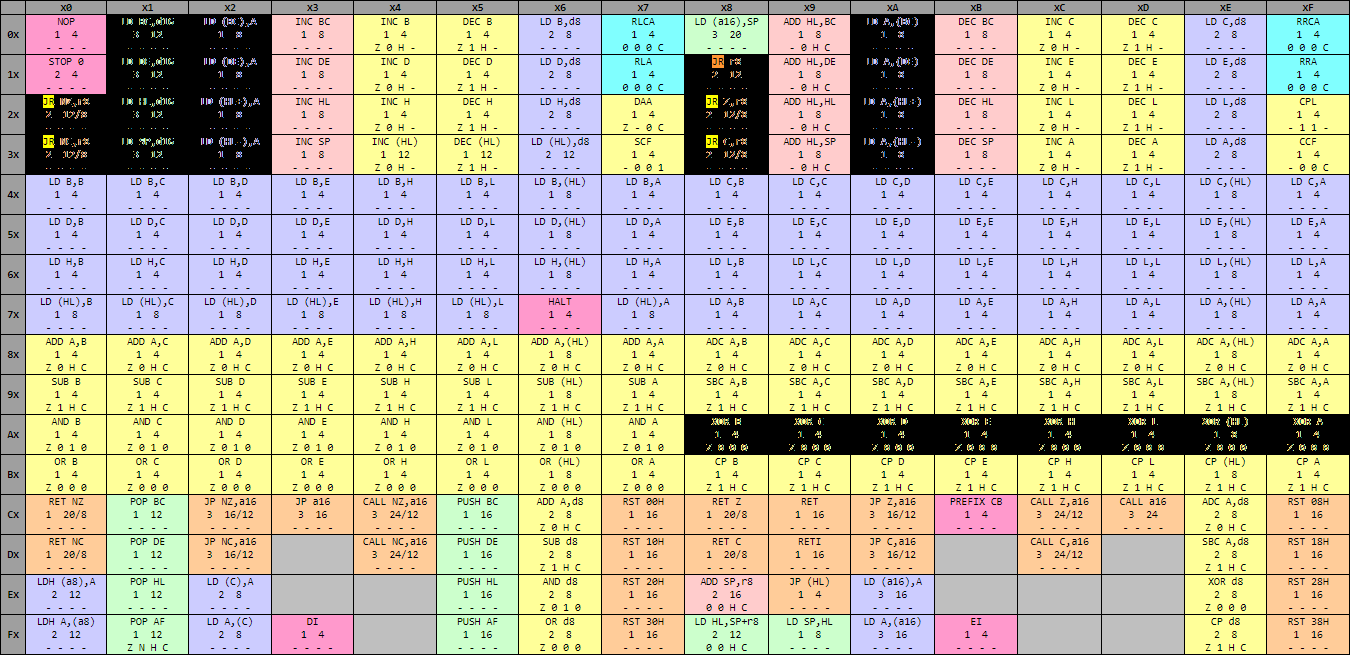
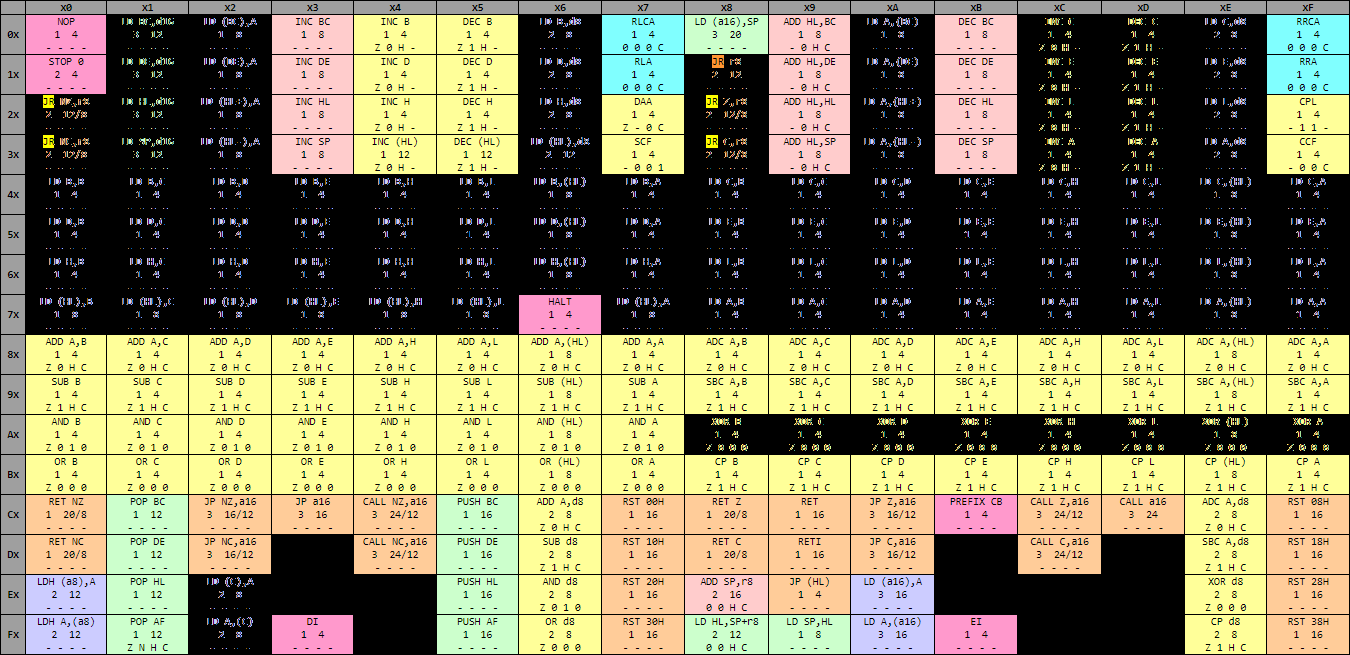
Decode opcodes continued

diff --git a/gbCPU.decode.c b/gbCPU.decode.c
@@ -1,11 +1,15 @@
 #include <stdio.h>
 #include "gbCPU.h"
 
-#define OPL  "%s %d"
-#define OPR  "%s %s"
-#define OPRL "%s %s, %d"
-#define OPRR "%s %s, %s"
-#define OPRW "%s %s, %0#6x"
+#define OPL   "%s %d"
+#define OPR   "%s %s"
+#define OPW   "%s %0#6x"
+#define OPRL  "%s %s, %d"
+#define OPRR  "%s %s, %s"
+#define OPRB  "%s %s, %0#4x"
+#define OPRW  "%s %s, %0#6x"
+#define OPBMR "%s (%0#4x), %s"
+#define OPRBM "%s %s, (%0#4x)"
 
 void DecodeExecuteCB(BYTE opcode, FILE *output);
 
@@ -23,7 +27,7 @@ void DecodeExecute(BYTE opcode, FILE *output)
         case 0x31: fprintf(output, OPRW, "LD", "SP", GetImmediateWord(output));
                    break;
 
-        // Load / Store byte into register A
+        // Load / Store byte in memory into register A
         case 0x02: fprintf(output, OPRR, "LD", "(BC)", "A");
                    break;
         case 0x12: fprintf(output, OPRR, "LD", "(DE)", "A");
@@ -41,6 +45,44 @@ void DecodeExecute(BYTE opcode, FILE *output)
         case 0x3a: fprintf(output, OPRR, "LD", "A", "(HL-)");
                    break;
 
+        // Load immediate byte into register
+        case 0x06: fprintf(output, OPRB, "LD", "B", Fetch(output));
+                   break;
+        case 0x0e: fprintf(output, OPRB, "LD", "C", Fetch(output));
+                   break;           
+        case 0x16: fprintf(output, OPRB, "LD", "D", Fetch(output));
+                   break;
+        case 0x1e: fprintf(output, OPRB, "LD", "E", Fetch(output));
+                   break;
+        case 0x26: fprintf(output, OPRB, "LD", "H", Fetch(output));
+                   break;
+        case 0x2e: fprintf(output, OPRB, "LD", "L", Fetch(output));
+                   break;
+        case 0x36: fprintf(output, OPRB, "LD", "(HL)", Fetch(output));
+                   break;
+        case 0x3e: fprintf(output, OPRB, "LD", "A", Fetch(output));
+                   break;                                                                                               
+
+        // Increment
+        case 0x0c: fprintf(output, OPR, "INC", "C");
+                   break;
+        case 0x1c: fprintf(output, OPR, "INC", "E");
+                   break;
+        case 0x2c: fprintf(output, OPR, "INC", "L");
+                   break;
+        case 0x3c: fprintf(output, OPR, "INC", "A");
+                   break;
+
+        // Decrement
+        case 0x0d: fprintf(output, OPR, "INC", "C");
+                   break;
+        case 0x1d: fprintf(output, OPR, "INC", "E");
+                   break;
+        case 0x2d: fprintf(output, OPR, "INC", "L");
+                   break;
+        case 0x3d: fprintf(output, OPR, "INC", "A");
+                   break;                                                                                                                                     
+
         // Jump relative to current PC
         case 0x18: fprintf(output, OPL, "JR", (S_BYTE)Fetch(output));
                    break;
@@ -52,6 +94,148 @@ void DecodeExecute(BYTE opcode, FILE *output)
                    break;
         case 0x30: fprintf(output, OPRL, "JR", "NC", (S_BYTE)Fetch(output));
                    break;                                      
+
+        // Load byte from register (or (HL)) into register B
+        case 0x40: fprintf(output, OPRR, "LD", "B", "B");
+                   break;
+        case 0x41: fprintf(output, OPRR, "LD", "B", "C");
+                   break;
+        case 0x42: fprintf(output, OPRR, "LD", "B", "D");
+                   break;
+        case 0x43: fprintf(output, OPRR, "LD", "B", "E");
+                   break;
+        case 0x44: fprintf(output, OPRR, "LD", "B", "H");
+                   break;
+        case 0x45: fprintf(output, OPRR, "LD", "B", "L");
+                   break;
+        case 0x46: fprintf(output, OPRR, "LD", "B", "(HL)");
+                   break;
+        case 0x47: fprintf(output, OPRR, "LD", "B", "A");
+                   break;                   
+
+        // Load byte from register (or (HL)) into register C
+        case 0x48: fprintf(output, OPRR, "LD", "C", "B");
+                   break;
+        case 0x49: fprintf(output, OPRR, "LD", "C", "C");
+                   break;
+        case 0x4a: fprintf(output, OPRR, "LD", "C", "D");
+                   break;
+        case 0x4b: fprintf(output, OPRR, "LD", "C", "E");
+                   break;
+        case 0x4c: fprintf(output, OPRR, "LD", "C", "H");
+                   break;
+        case 0x4d: fprintf(output, OPRR, "LD", "C", "L");
+                   break;
+        case 0x4e: fprintf(output, OPRR, "LD", "C", "(HL)");
+                   break;
+        case 0x4f: fprintf(output, OPRR, "LD", "C", "A");
+                   break;  
+
+        // Load byte from register (or (HL)) into register D
+        case 0x50: fprintf(output, OPRR, "LD", "D", "B");
+                   break;
+        case 0x51: fprintf(output, OPRR, "LD", "D", "C");
+                   break;
+        case 0x52: fprintf(output, OPRR, "LD", "D", "D");
+                   break;
+        case 0x53: fprintf(output, OPRR, "LD", "D", "E");
+                   break;
+        case 0x54: fprintf(output, OPRR, "LD", "D", "H");
+                   break;
+        case 0x55: fprintf(output, OPRR, "LD", "D", "L");
+                   break;
+        case 0x56: fprintf(output, OPRR, "LD", "D", "(HL)");
+                   break;
+        case 0x57: fprintf(output, OPRR, "LD", "D", "A");
+                   break;                   
+
+        // Load byte from register (or (HL)) into register E
+        case 0x58: fprintf(output, OPRR, "LD", "E", "B");
+                   break;
+        case 0x59: fprintf(output, OPRR, "LD", "E", "C");
+                   break;
+        case 0x5a: fprintf(output, OPRR, "LD", "E", "D");
+                   break;
+        case 0x5b: fprintf(output, OPRR, "LD", "E", "E");
+                   break;
+        case 0x5c: fprintf(output, OPRR, "LD", "E", "H");
+                   break;
+        case 0x5d: fprintf(output, OPRR, "LD", "E", "L");
+                   break;
+        case 0x5e: fprintf(output, OPRR, "LD", "E", "(HL)");
+                   break;
+        case 0x5f: fprintf(output, OPRR, "LD", "E", "A");
+                   break;  
+
+        // Load byte from register (or (HL)) into register H
+        case 0x60: fprintf(output, OPRR, "LD", "H", "B");
+                   break;
+        case 0x61: fprintf(output, OPRR, "LD", "H", "C");
+                   break;
+        case 0x62: fprintf(output, OPRR, "LD", "H", "D");
+                   break;
+        case 0x63: fprintf(output, OPRR, "LD", "H", "E");
+                   break;
+        case 0x64: fprintf(output, OPRR, "LD", "H", "H");
+                   break;
+        case 0x65: fprintf(output, OPRR, "LD", "H", "L");
+                   break;
+        case 0x66: fprintf(output, OPRR, "LD", "H", "(HL)");
+                   break;
+        case 0x67: fprintf(output, OPRR, "LD", "H", "A");
+                   break;                   
+
+        // Load byte from register (or (HL)) into register L
+        case 0x68: fprintf(output, OPRR, "LD", "L", "B");
+                   break;
+        case 0x69: fprintf(output, OPRR, "LD", "L", "C");
+                   break;
+        case 0x6a: fprintf(output, OPRR, "LD", "L", "D");
+                   break;
+        case 0x6b: fprintf(output, OPRR, "LD", "L", "E");
+                   break;
+        case 0x6c: fprintf(output, OPRR, "LD", "L", "H");
+                   break;
+        case 0x6d: fprintf(output, OPRR, "LD", "L", "L");
+                   break;
+        case 0x6e: fprintf(output, OPRR, "LD", "L", "(HL)");
+                   break;
+        case 0x6f: fprintf(output, OPRR, "LD", "L", "A");
+                   break;  
+
+        // Load byte from register (or (HL)) into memory at HL
+        case 0x70: fprintf(output, OPRR, "LD", "(HL)", "B");
+                   break;
+        case 0x71: fprintf(output, OPRR, "LD", "(HL)", "C");
+                   break;
+        case 0x72: fprintf(output, OPRR, "LD", "(HL)", "D");
+                   break;
+        case 0x73: fprintf(output, OPRR, "LD", "(HL)", "E");
+                   break;
+        case 0x74: fprintf(output, OPRR, "LD", "(HL)", "H");
+                   break;
+        case 0x75: fprintf(output, OPRR, "LD", "(HL)", "L");
+                   break;
+        case 0x77: fprintf(output, OPRR, "LD", "(HL)", "A");
+                   break;                   
+
+        // Load byte from register (or (HL)) into register A
+        case 0x78: fprintf(output, OPRR, "LD", "A", "B");
+                   break;
+        case 0x79: fprintf(output, OPRR, "LD", "A", "C");
+                   break;
+        case 0x7a: fprintf(output, OPRR, "LD", "A", "D");
+                   break;
+        case 0x7b: fprintf(output, OPRR, "LD", "A", "E");
+                   break;
+        case 0x7c: fprintf(output, OPRR, "LD", "A", "H");
+                   break;
+        case 0x7d: fprintf(output, OPRR, "LD", "A", "L");
+                   break;
+        case 0x7e: fprintf(output, OPRR, "LD", "A", "(HL)");
+                   break;
+        case 0x7f: fprintf(output, OPRR, "LD", "A", "A");
+                   break;  
 
         // Xor register / memory
         case 0xa8: fprintf(output, OPR, "XOR", "B");
@@ -74,6 +258,30 @@ void DecodeExecute(BYTE opcode, FILE *output)
         // Opcode cb is a prefix for many instructions. Fetch next opcode and decode to determine
         // the appropriate operation to execute
         case 0xcb: DecodeExecuteCB(Fetch(output), output);
+                   break;
+
+        // Call subroutine at immediate word address
+        case 0xcd: fprintf(output, OPW, "CALL", GetImmediateWord(output));
+                   break;
+        case 0xcc: fprintf(output, OPRW, "CALL", "Z", GetImmediateWord(output));
+                   break;
+        case 0xdc: fprintf(output, OPRW, "CALL", "C", GetImmediateWord(output));
+                   break;
+        case 0xc4: fprintf(output, OPRW, "CALL", "NZ", GetImmediateWord(output));
+                   break;
+        case 0xd4: fprintf(output, OPRW, "CALL", "NC", GetImmediateWord(output));
+                   break;
+
+        // Load / Store byte at register P1 (address 0xff00) + byte immediate into register A
+        case 0xe0: fprintf(output, OPBMR, "LDH", Fetch(output), "A");
+                   break;
+        case 0xf0: fprintf(output, OPRBM, "LDH", "A", Fetch(output));
+                   break;
+
+        // Load / Store byte at register P1 (address 0xff00) + C into register A
+        case 0xe2: fprintf(output, OPRR, "LD", "(C)", "A");
+                   break;
+        case 0xf2: fprintf(output, OPRR, "LD", "A", "(C)");
                    break;
     }
 }
